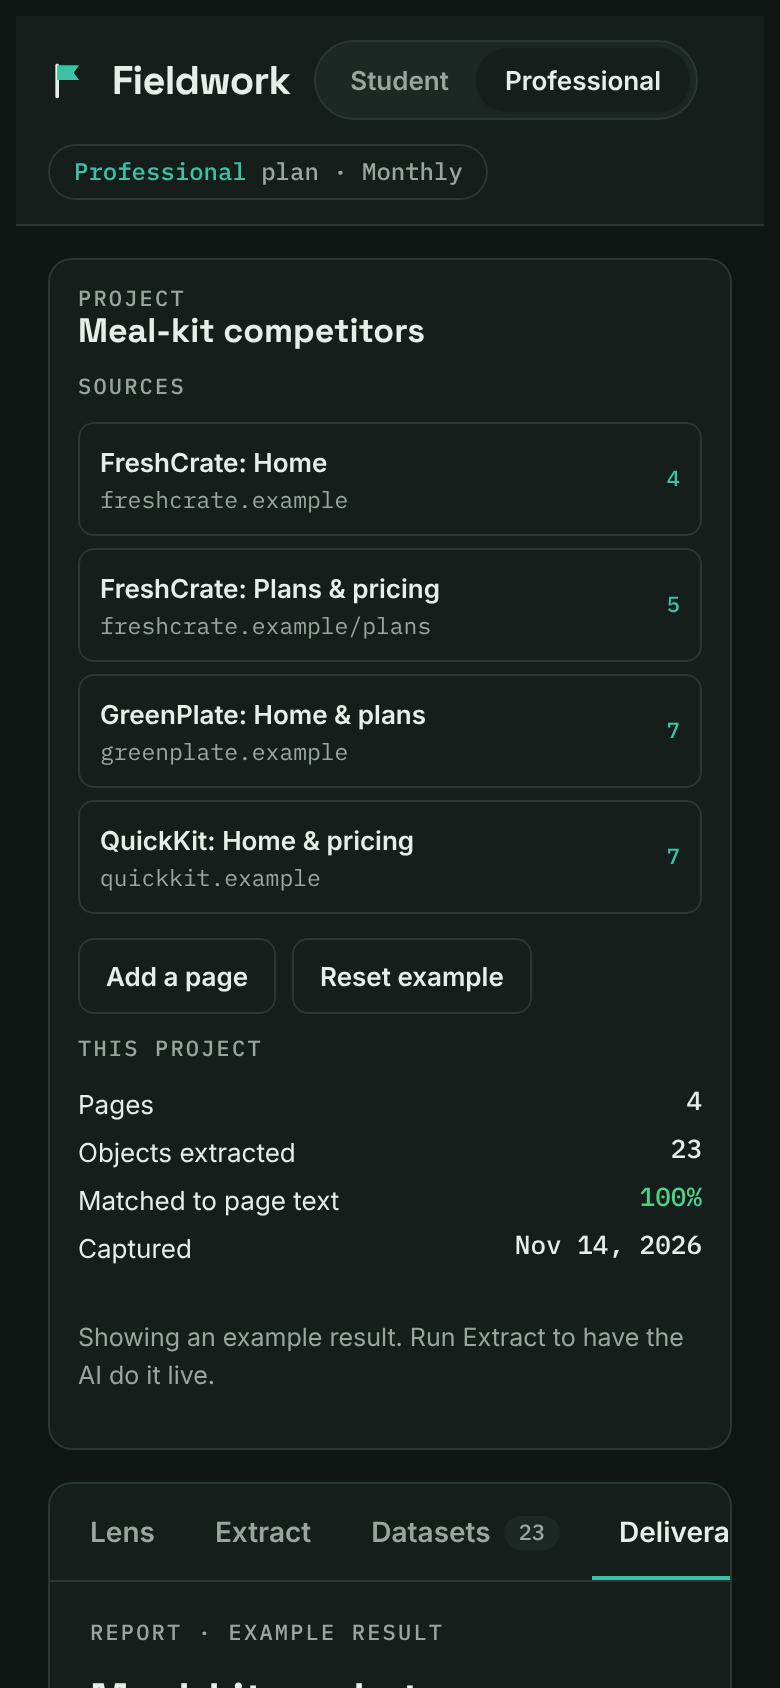
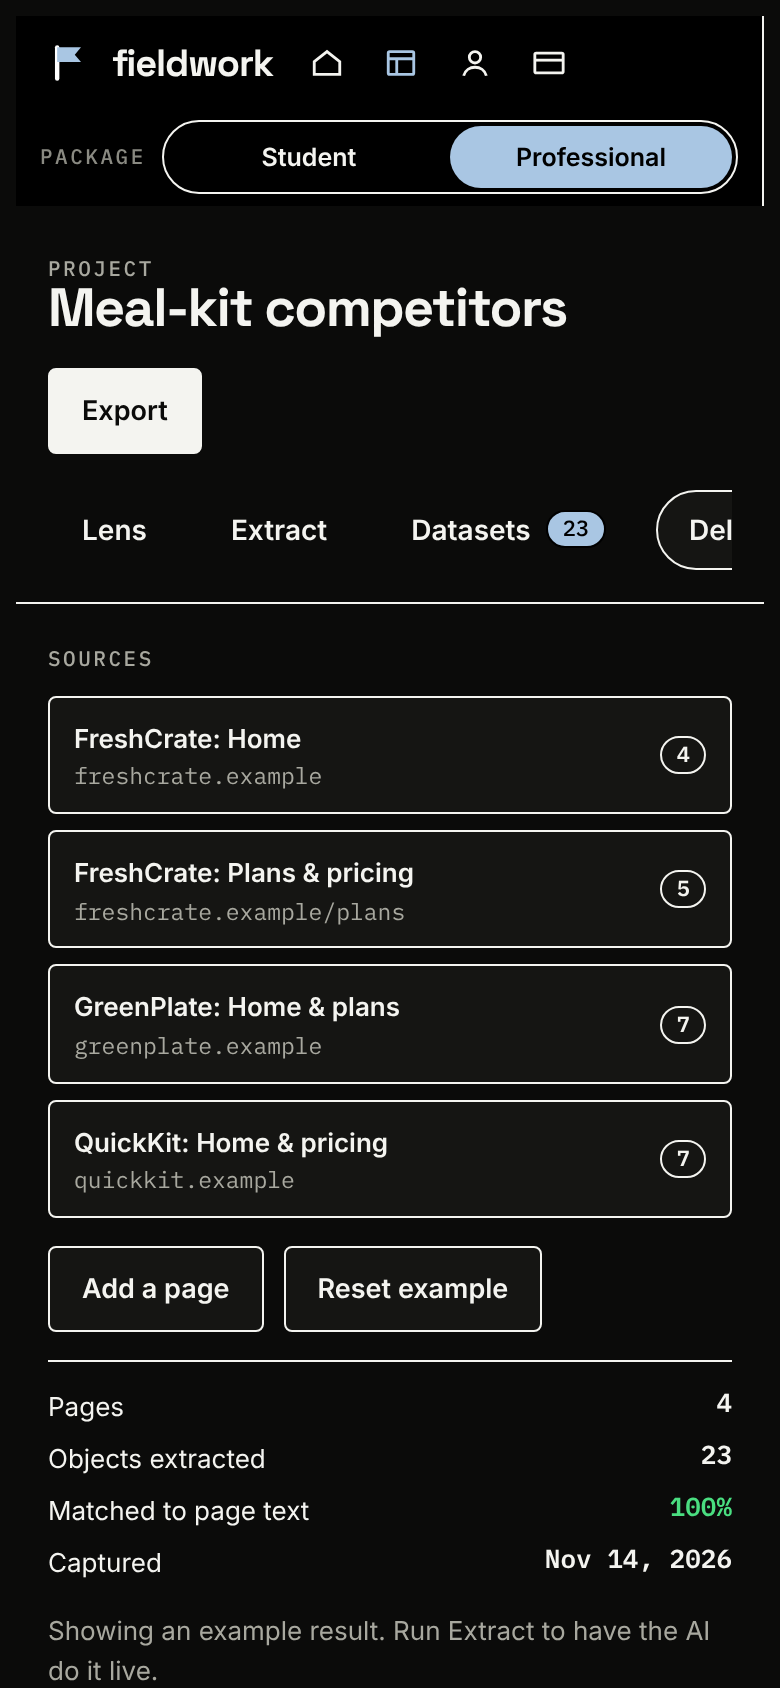
Fieldwork: one soft blue accent across app, exports and mockups
Claude-Session: https://claude.ai/code/session_01EqzuJohQjQ55cYRxj1UmXr

diff --git a/fieldwork/mockups/extension.html b/fieldwork/mockups/extension.html
@@ -4,7 +4,7 @@
 <link href="https://fonts.googleapis.com/css2?family=Space+Grotesk:wght@500;700&family=Inter:wght@400;500;600;700&family=IBM+Plex+Mono:wght@400;500&family=Playfair+Display:wght@700;900&display=swap" rel="stylesheet">
 <style>
 /* Mockup of a browser with the Fieldwork extension. The "site" is a made-up meal-kit brand. */
-:root { --fw: #0f6e5f; --fw-ink: #14201a; --fw-muted: #5d6b63; --fw-line: #dbe2dc; --fw-bg: #f4f6f3; --hl: #ffe27a; }
+:root { --fw: #35618c; --fw-ink: #14201a; --fw-muted: #57574f; --fw-line: #d8d8d0; --fw-bg: #f4f4f0; --hl: #cfe0f2; }
 * { box-sizing: border-box; }
 body { margin: 0; font: 14px/1.5 Inter, Arial, sans-serif; background: #d9dcdf; color: #111; }
 .browser { position: fixed; inset: 0; display: grid; grid-template-rows: auto auto 1fr; background: #fff; }
@@ -57,11 +57,11 @@ footer.sitefoot { background: #1b1b1b; color: #999; padding: 50px 80px; font-siz
 .popup .b { background: #ff6a3d; color: #fff; font-weight: 800; padding: 13px; border-radius: 8px; }
 
 /* ---------- Fieldwork overlay ---------- */
-.fw { position: absolute; inset: 0; z-index: 5; background: rgba(244,246,243,.97); font-family: Inter, Arial, sans-serif; color: var(--fw-ink); display: grid; grid-template-rows: auto 1fr; }
+.fw { position: absolute; inset: 0; z-index: 5; background: rgba(244,244,240,.97); font-family: Inter, Arial, sans-serif; color: var(--fw-ink); display: grid; grid-template-rows: auto 1fr; }
 .fwbar { display: flex; align-items: center; gap: 12px; padding: 10px 20px; background: #fff; border-bottom: 1px solid var(--fw-line); }
 .fwlogo { display: flex; gap: 8px; align-items: center; font: 700 16px Space Grotesk, sans-serif; }
 .fwlogo svg { width: 18px; height: 18px; }
-.styles { display: flex; gap: 2px; background: #e9efea; border-radius: 999px; padding: 3px; }
+.styles { display: flex; gap: 2px; background: #ececE5; border-radius: 999px; padding: 3px; }
 .styles span { padding: 6px 13px; border-radius: 999px; font-size: 12.5px; font-weight: 600; color: var(--fw-muted); }
 .styles span.on { background: #fff; color: var(--fw-ink); box-shadow: 0 1px 2px rgba(0,0,0,.12); }
 .fwbar .sp { flex: 1; }
@@ -77,7 +77,7 @@ footer.sitefoot { background: #1b1b1b; color: #999; padding: 50px 80px; font-siz
 .chunks { display: grid; grid-template-columns: repeat(3, 1fr); gap: 12px; }
 .chunk { background: #fff; border: 1px solid var(--fw-line); border-radius: 12px; padding: 14px 16px; display: grid; gap: 7px; align-content: start; }
 .chunk.wide { grid-column: span 2; }
-.chunk.fine { border-color: #f1c58f; background: #fffaf2; }
+.chunk.fine { border-color: #a9c6e3; background: #f2f7fc; }
 .chunk h3 { margin: 0; font: 600 14.5px Space Grotesk, sans-serif; display: flex; justify-content: space-between; gap: 8px; }
 .chunk h3 small { font: 500 10.5px IBM Plex Mono, monospace; color: var(--fw); font-weight: 500; white-space: nowrap; }
 .chunk p { margin: 0; font-size: 14px; line-height: 1.55; }
@@ -147,7 +147,7 @@ footer.sitefoot { background: #1b1b1b; color: #999; padding: 50px 80px; font-siz
 </style></head><body>
 <div id="root"></div>
 <script>
-const LOGO = `<svg viewBox="0 0 24 24"><path d="M5 21V4" stroke="#14201a" stroke-width="2" stroke-linecap="round"/><path d="M5 4h12l-3 4 3 4H5" fill="#0f6e5f"/></svg>`;
+const LOGO = `<svg viewBox="0 0 24 24"><path d="M5 21V4" stroke="#14201a" stroke-width="2" stroke-linecap="round"/><path d="M5 4h12l-3 4 3 4H5" fill="#a9c6e3"/></svg>`;
 const SITE = `<div class="site">
 <div class="promo">SPRING SALE — 50% OFF YOUR FIRST BOX*</div>
 <div class="sitenav"><span class="brand">QuickKit</span><nav><span>Menu</span><span>Plans</span><span>How it works</span><span>Gifts</span><span>Blog</span></nav><span class="cta">Get started</span></div>
@@ -203,7 +203,7 @@ const VIEWS = {
     <div class="done"><div><b>✓</b>Read 4 open tabs</div><div><b>✓</b>Extracted 31 objects with quotes</div><div><b>✓</b>31 of 31 matched to the pages</div><div><b>✓</b>Built your deck and spreadsheet</div></div>
     <div class="mini"><table><tr><th>Company</th><th>Lowest / serving</th><th>Shipping</th></tr><tr><td>QuickKit</td><td>$8.99</td><td>$7.99 after box 1</td></tr><tr><td>FreshCrate</td><td>$5.99</td><td>Free over $50</td></tr><tr><td>GreenPlate</td><td>$7.49</td><td>not found</td></tr></table></div>
     <div class="exp"><span>Deck<small>PowerPoint</small></span><span>Data<small>Excel</small></span><span>Report<small>PDF</small></span></div></div></div></div>`, "tip"),
-  phone: () => `<div class="phone"><div class="pbar"><span>9:41</span><span>●●● 100%</span></div><div class="paddr"><span>quickkit.example/plans</span><span style="color:#0f6e5f;font-weight:700">Fieldwork ✓</span></div>
+  phone: () => `<div class="phone"><div class="pbar"><span>9:41</span><span>●●● 100%</span></div><div class="paddr"><span>quickkit.example/plans</span><span style="color:#35618c;font-weight:700">Fieldwork ✓</span></div>
     <div class="pcard"><span class="tag">2 of 6 · Plans & pricing</span><h2>Two plans, both weekly</h2>
     <div class="prow">Solo<b>$54.00</b><span>5 meals for 1 person · $10.80 per serving</span></div>
     <div class="prow">Duo<b>$89.90</b><span>5 meals for 2 people · $8.99 per serving</span></div>
@@ -217,11 +217,11 @@ const VIEWS = {
        ["FreshCrate: Plans", "freshcrate.example/plans", "Today, 9:32", "linear-gradient(135deg,#86efac,#15803d)", ["Family Box $5.99 / serving", "Free shipping over $50"], ["Pricing"]],
        ["GreenPlate: Home & plans", "greenplate.example", "Yesterday", "linear-gradient(135deg,#bef264,#4d7c0f)", ["100% home compostable", "Big Table $7.49 / serving"], ["Sustainability", "Pricing"]],
        ["Meal-kit market report 2026", "industrynews.example/meal-kits", "Yesterday", "linear-gradient(135deg,#93c5fd,#1e40af)", ["Quote: “Convenience beats price for under-35s.”", "Chart snipped"], ["Market", "Quotes"]]
-      ].map(([t, u, d, g, snips, tags]) => `<div class="chunk" style="padding:0;overflow:hidden"><div style="height:92px;background:${g};position:relative"><span class="pill" style="position:absolute;left:8px;bottom:8px;background:#fff">${d}</span></div><div style="padding:12px 14px;display:grid;gap:8px"><h3 style="display:block">${t}</h3><span class="meta" style="font:400 11px IBM Plex Mono,monospace;color:#5d6b63">${u}</span>${snips.map(s => `<div style="background:#fffbe6;border-left:3px solid #e5b800;padding:6px 8px;font-size:12.5px;border-radius:4px">✂ ${s}</div>`).join("")}<div class="chips">${tags.map(x => `<span>${x}</span>`).join("")}</div></div></div>`).join("")}
+      ].map(([t, u, d, g, snips, tags]) => `<div class="chunk" style="padding:0;overflow:hidden"><div style="height:92px;background:${g};position:relative"><span class="pill" style="position:absolute;left:8px;bottom:8px;background:#fff">${d}</span></div><div style="padding:12px 14px;display:grid;gap:8px"><h3 style="display:block">${t}</h3><span class="meta" style="font:400 11px IBM Plex Mono,monospace;color:#57574f">${u}</span>${snips.map(s => `<div style="background:#eef4fb;border-left:3px solid #a9c6e3;padding:6px 8px;font-size:12.5px;border-radius:4px">✂ ${s}</div>`).join("")}<div class="chips">${tags.map(x => `<span>${x}</span>`).join("")}</div></div></div>`).join("")}
     </div>
-    <div class="chunk"><h3>Snips board <small>drag snips into a report, deck or spreadsheet</small></h3><div style="display:flex;gap:10px;flex-wrap:wrap">${["Solo $54.00 / week · QuickKit", "Family Box $5.99 / serving · FreshCrate", "Big Table $7.49 / serving · GreenPlate", "“Convenience beats price for under-35s.” · Industry report", "Shipping $7.99 after box 1 · QuickKit", "Free shipping over $50 · FreshCrate"].map(s => `<span style="background:#fff;border:1px solid #dbe2dc;border-radius:10px;padding:9px 12px;font-size:13px;box-shadow:0 2px 6px rgba(0,0,0,.06)">✂ ${s}</span>`).join("")}</div></div>
+    <div class="chunk"><h3>Snips board <small>drag snips into a report, deck or spreadsheet</small></h3><div style="display:flex;gap:10px;flex-wrap:wrap">${["Solo $54.00 / week · QuickKit", "Family Box $5.99 / serving · FreshCrate", "Big Table $7.49 / serving · GreenPlate", "“Convenience beats price for under-35s.” · Industry report", "Shipping $7.99 after box 1 · QuickKit", "Free shipping over $50 · FreshCrate"].map(s => `<span style="background:#fff;border:1px solid #d8d8d0;border-radius:10px;padding:9px 12px;font-size:13px;box-shadow:0 2px 6px rgba(0,0,0,.06)">✂ ${s}</span>`).join("")}</div></div>
     </div></div></div>`, "tip"),
-  senior: () => `<div class="phone senior"><div class="pbar"><span>9:41</span><span>●●● 100%</span></div><div class="paddr"><span>quickkit.example/plans</span><span style="color:#0f6e5f;font-weight:700">Large view</span></div>
+  senior: () => `<div class="phone senior"><div class="pbar"><span>9:41</span><span>●●● 100%</span></div><div class="paddr"><span>quickkit.example/plans</span><span style="color:#35618c;font-weight:700">Large view</span></div>
     <div class="pcard"><span class="tag" style="font-size:14px">Fine print · 5 of 6</span><h2>Before you sign up</h2>
     <div class="prow">It renews every week<span>until you cancel it.</span></div>
     <div class="prow">Cancel by Wednesday<span>11:59 pm, before your next delivery.</span></div>

diff --git a/fieldwork/index.html b/fieldwork/index.html
@@ -5,11 +5,11 @@
 <link rel="stylesheet" href="https://fonts.googleapis.com/css2?family=Space+Grotesk:wght@500;700&family=Inter:wght@400;500;600;700&family=IBM+Plex+Mono:wght@400;500;600;700&display=swap">
 <style>
 /* Layout: a bold, outlined workspace. Black sidebar for the app; a project header with pill tabs;
-   sources on the left, work on the right. Hot pink is the brand accent; yellow is reserved for evidence highlights. */
+   sources on the left, work on the right. One soft, natural blue is the only accent color; evidence highlights use a light tint of it. */
 :root {
   --bg: #f4f4f0; --panel: #ffffff; --ink: #000000; --muted: #57574f; --line: #000000; --hair: #d8d8d0; --soft: #ececE5;
-  --accent: #ff4fa3; --accent-ink: #000000; --ok: #10823a; --warn: #b54708; --side: #000000; --side-ink: #ffffff; --side-dim: #9b9b93;
-  --hl: #ffe45c; --hl-ink: #000000;
+  --accent: #a9c6e3; --accent-soft: #dde9f5; --accent-strong: #35618c; --accent-ink: #000000; --ok: #10823a; --warn: #b54708; --side: #000000; --side-ink: #ffffff; --side-dim: #9b9b93;
+  --hl: #cfe0f2; --hl-ink: #000000;
   --display: "Space Grotesk", "Segoe UI", system-ui, sans-serif;
   --body: "Inter", "Helvetica Neue", Arial, system-ui, sans-serif;
   --mono: "IBM Plex Mono", ui-monospace, Menlo, Consolas, monospace;
@@ -167,10 +167,9 @@ td.num { font-variant-numeric: tabular-nums; white-space: nowrap; font-weight: 6
 .pcard { border: 1px solid var(--line); border-radius: 4px; background: var(--panel); text-align: left; padding: 0; display: grid; grid-template-rows: auto 1fr; overflow: hidden; transition: transform .12s, box-shadow .12s; }
 .pcard:hover { transform: translate(-3px, -3px); box-shadow: 5px 5px 0 var(--line); }
 .cover { height: 150px; border-bottom: 1px solid var(--line); position: relative; display: grid; place-items: center; font: 700 44px/1 var(--display); letter-spacing: -.04em; overflow: hidden; }
-.c-pro { background: repeating-linear-gradient(-45deg, var(--accent) 0 14px, #ffd1e8 14px 28px); color: #000; }
+.c-pro { background: repeating-linear-gradient(-45deg, var(--accent) 0 14px, var(--accent-soft) 14px 28px); color: #000; }
 .c-student { background: radial-gradient(#000 1.6px, transparent 1.8px) 0 0 / 16px 16px, #fff; color: #000; }
 .c-tpl { background: #000; color: var(--accent); }
-.c-tpl.y { color: var(--hl); }
 .ptag { letter-spacing: .02em; position: absolute; left: 12px; bottom: 12px; background: var(--accent); color: #000; border: 1px solid #000; font: 700 12px/1 var(--mono); padding: 6px 16px 6px 10px; clip-path: polygon(0 0, calc(100% - 9px) 0, 100% 50%, calc(100% - 9px) 100%, 0 100%); }
 .pbody { padding: 16px 18px 18px; display: grid; gap: 6px; align-content: start; }
 .pmeta { display: flex; gap: 6px; flex-wrap: wrap; margin-top: 6px; }
@@ -240,7 +239,7 @@ dialog textarea { min-height: 180px; resize: vertical; font-size: 13.5px; }
 
 <div class="shell">
   <nav class="sidebar" aria-label="Main">
-    <div class="wordmark"><svg viewBox="0 0 24 24" aria-hidden="true"><path d="M5 21V4" stroke="#fff" stroke-width="2.4" stroke-linecap="round"/><path d="M5 4h13l-3.4 4L18 12H5" fill="#ff4fa3"/></svg>fieldwork</div>
+    <div class="wordmark"><svg viewBox="0 0 24 24" aria-hidden="true"><path d="M5 21V4" stroke="#fff" stroke-width="2.4" stroke-linecap="round"/><path d="M5 4h13l-3.4 4L18 12H5" style="fill: var(--accent)"/></svg>fieldwork</div>
     <button class="navi" data-nav="home"><svg viewBox="0 0 24 24" fill="none" stroke="currentColor" stroke-width="2"><path d="M3 11l9-7 9 7v9H3z"/></svg><span>Home</span></button>
     <button class="navi" data-nav="project"><svg viewBox="0 0 24 24" fill="none" stroke="currentColor" stroke-width="2"><rect x="3" y="4" width="18" height="16" rx="1"/><path d="M3 9h18M9 9v11"/></svg><span>Project</span></button>
     <button class="navi" data-nav="account"><svg viewBox="0 0 24 24" fill="none" stroke="currentColor" stroke-width="2"><circle cx="12" cy="8" r="4"/><path d="M4 21c1-4 4.5-6 8-6s7 2 8 6"/></svg><span>Account</span></button>
@@ -505,7 +504,7 @@ function renderHome() {
   <div class="row"><h2>Your projects</h2></div>
   <div class="cards">${projCard(pkg)}${projCard(pkg === "pro" ? "student" : "pro")}</div>
   <div class="row"><h2>${esc(P.name)} templates</h2><span class="sp"></span><span class="note">Each one builds a report, slides and datasets.</span></div>
-  <div class="cards">${P.templates.map((t, i) => `<button class="pcard" data-tplgo="${i}"><div class="cover c-tpl${i % 2 ? " y" : ""}">${esc(t.name.split(/[ +]/).filter(Boolean).map(w => w[0]).join("").slice(0, 3).toUpperCase())}<span class="ptag">Template</span></div><div class="pbody"><h3>${esc(t.name)}</h3><p class="note">${esc(t.req)}</p><div class="pmeta"><span class="chip">PDF</span><span class="chip">PowerPoint</span><span class="chip">Excel</span></div></div></button>`).join("")}</div>`;
+  <div class="cards">${P.templates.map((t, i) => `<button class="pcard" data-tplgo="${i}"><div class="cover c-tpl">${esc(t.name.split(/[ +]/).filter(Boolean).map(w => w[0]).join("").slice(0, 3).toUpperCase())}<span class="ptag">Template</span></div><div class="pbody"><h3>${esc(t.name)}</h3><p class="note">${esc(t.req)}</p><div class="pmeta"><span class="chip">PDF</span><span class="chip">PowerPoint</span><span class="chip">Excel</span></div></div></button>`).join("")}</div>`;
 }
 
 function renderAccount() {
@@ -713,7 +712,7 @@ function buildPdf() {
   const M = 54, W = 612 - M * 2; let y = M;
   const need = h => { if (y + h > 792 - M) { doc.addPage(); y = M; } };
   const text = (t, size, style, gap, color) => { doc.setFont("helvetica", style || "normal"); doc.setFontSize(size); doc.setTextColor(...(color || [20, 32, 26])); const lines = doc.splitTextToSize(String(t), W); lines.forEach(l => { need(size * 1.35); doc.text(l, M, y); y += size * 1.35; }); y += gap || 0; };
-  text("FIELDWORK  |  " + (pkg === "pro" ? "REPORT" : "STUDY GUIDE"), 8, "bold", 14, [15, 110, 95]);
+  text("FIELDWORK  |  " + (pkg === "pro" ? "REPORT" : "STUDY GUIDE"), 8, "bold", 14, [53, 97, 140]);
   text(d.title, 20, "bold", 8); text(d.summary, 11, "normal", 12);
   if (pkg === "pro" && project.result.objects.price?.length) {
     text("Price comparison", 13, "bold", 4);
@@ -728,11 +727,11 @@ function buildPdf() {
 }
 async function buildPptx() {
   const d = project.result.deliverable, p = new PptxGenJS(); p.layout = "LAYOUT_WIDE";
-  const ACC = "0F6E5F", INK = "14201A";
+  const ACC = "35618C", INK = "14201A";
   let s = p.addSlide(); s.background = { color: ACC };
   s.addText("FIELDWORK", { x: 0.6, y: 0.5, w: 6, h: 0.4, fontFace: "Arial", fontSize: 12, bold: true, color: "FFFFFF" });
   s.addText(d.title, { x: 0.6, y: 2.2, w: 12, h: 1.4, fontFace: "Arial", fontSize: 36, bold: true, color: "FFFFFF" });
-  s.addText(d.summary, { x: 0.6, y: 3.7, w: 11.5, h: 1.4, fontFace: "Arial", fontSize: 16, color: "E6F2EF" });
+  s.addText(d.summary, { x: 0.6, y: 3.7, w: 11.5, h: 1.4, fontFace: "Arial", fontSize: 16, color: "E3ECF5" });
   d.sections.forEach(sec => { const sl = p.addSlide(); sl.addText(sec.h, { x: 0.6, y: 0.4, w: 12, h: 0.8, fontFace: "Arial", fontSize: 28, bold: true, color: INK }); sl.addShape(p.ShapeType.rect, { x: 0.6, y: 1.2, w: 1.2, h: 0.06, fill: { color: ACC } }); sl.addText(sec.bullets.map(b => ({ text: b, options: { bullet: true, breakLine: true } })), { x: 0.6, y: 1.5, w: 12, h: 5, fontFace: "Arial", fontSize: 18, color: INK, valign: "top", paraSpaceAfter: 10 }); });
   const tableRows = pkg === "pro" ? (project.result.objects.price || []).map(r => [r.company, r.plan, r.price, r.per_serving || "not found", r.includes]) : (project.result.objects.term || []).map(r => [r.term, r.definition]);
   if (tableRows.length) {
